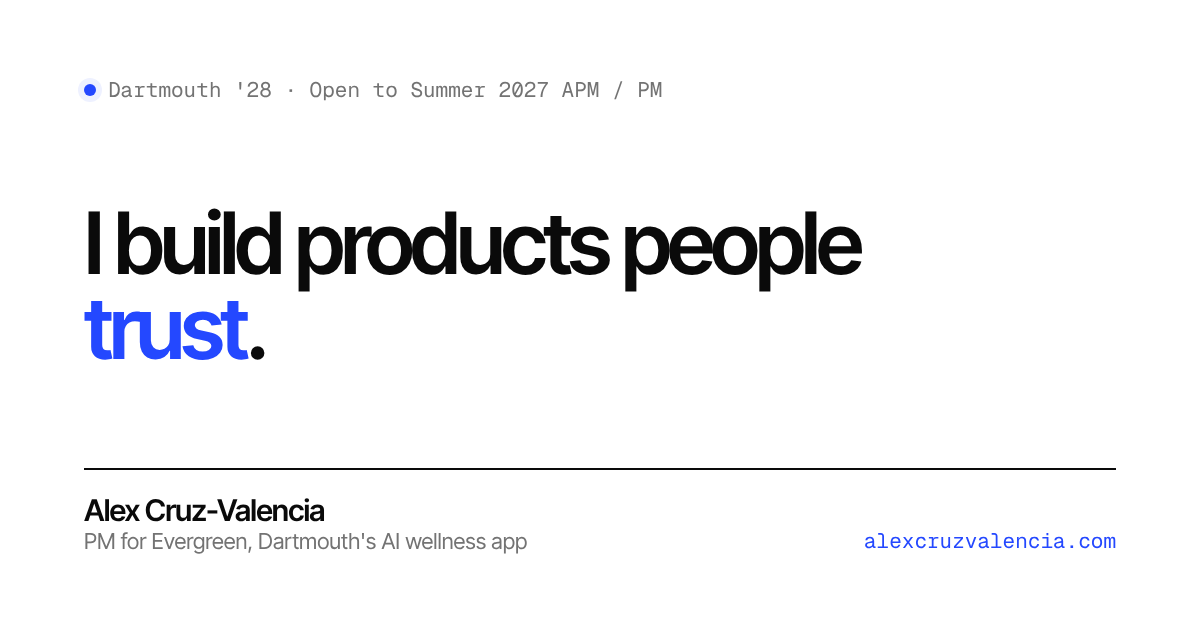
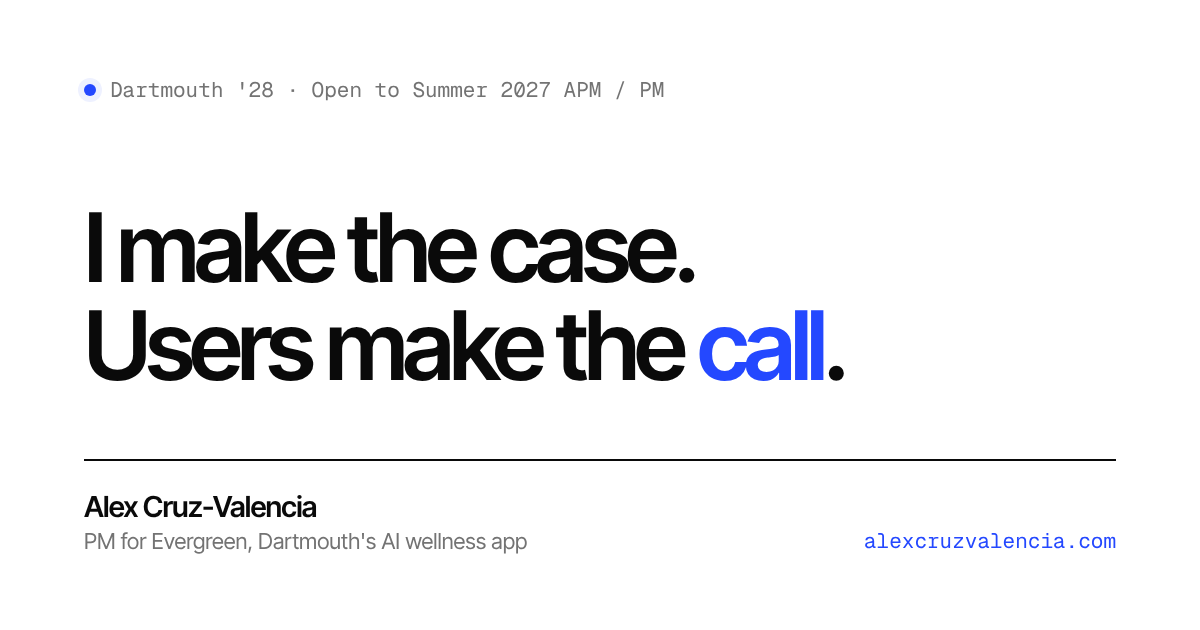
Scannable home and About, new headlines (#22)
* Scannable home and About: shorter hero, result chips on case study rows, About in four short blocks

Claude-Session: https://claude.ai/code/session_01YAcznZRQKYBfMag2UQGWRK

* Home headline: I make the case. Users make the call.

Claude-Session: https://claude.ai/code/session_01YAcznZRQKYBfMag2UQGWRK

* Share image matches the new headline

Claude-Session: https://claude.ai/code/session_01YAcznZRQKYBfMag2UQGWRK

* About headline: I ask who it's for. Then I go ask them. Document the scannable format

Claude-Session: https://claude.ai/code/session_01YAcznZRQKYBfMag2UQGWRK

* About: swap the languages line for what drives me; languages move to quick facts

Claude-Session: https://claude.ai/code/session_01YAcznZRQKYBfMag2UQGWRK

---------

diff --git a/src/styles/theme.css b/src/styles/theme.css
@@ -492,3 +492,8 @@ html.lenis, html.lenis body { height: auto; }
 :root:root:root:root .project-body strong { color: var(--color-text); font-weight: 600; }
 :root:root:root:root .project-more summary { cursor: pointer; }
 :root:root:root:root .project-more[open] summary { color: var(--color-accent); }
+
+/* Scannable home cards: short decks show in full; highlight numbers sit in one row */
+:root:root:root:root .card-excerpt.card-deck { display: block; -webkit-line-clamp: unset; overflow: visible; }
+:root:root:root:root .featured-side.highlight-stack { grid-template-columns: repeat(3, max-content); column-gap: 2.5rem; }
+@media (max-width: 960px) { :root:root:root:root .featured-side.highlight-stack { margin-left: 0; grid-template-columns: repeat(3, minmax(0, max-content)); column-gap: 1.5rem; } }

diff --git a/src/data/testimonials.ts b/src/data/testimonials.ts
@@ -19,7 +19,7 @@ export interface Testimonial {
 export const testimonials: Testimonial[] = [
   {
     quote:
-      'Over ten short weeks, Alex architected an enterprise-grade AI platform to measure product performance. His process was a masterclass in precision: hand-validating hundreds of data points to ensure long-term stability, all while grounding every decision in a sharp, value-driven business case.',
+      'His process was a masterclass in precision: hand-validating hundreds of data points to ensure long-term stability, all while grounding every decision in a sharp, value-driven business case.',
     name: 'Tia Kubicka',
     title: 'Product Leader, Boost Mobile (EchoStar)',
     relation: 'On Alex\'s EchoStar internship, Summer 2026',

diff --git a/src/content.config.ts b/src/content.config.ts
@@ -74,6 +74,8 @@ const caseStudies = defineCollection({
       frame: z.enum(['plain', 'dark', 'browser']).default('plain'),
       wide: z.boolean().default(true),
     }).optional(),
+    // 2–3 short result chips for the home page card.
+    highlights: z.array(z.object({ value: z.string(), label: z.string() })).optional(),
     // A pull quote from someone else, shown in the skim section.
     quote: z.object({ text: z.string(), by: z.string() }).optional(),
     // Big-number row.

diff --git a/AGENTS.md b/AGENTS.md
@@ -61,6 +61,10 @@ Shared helpers: `.eyebrow` / `.mono` labels, `.btn` / `.btn-outline`, `.tag`, `.
 
 Case study frontmatter also supports `org`, `role`, `team`, `methods`, `outcome`, `tldr`, `featured`: these drive the home cards and the "At a glance" box.
 
+**Scannable case study format** (all four use it). When `story` is set, `[slug].astro` renders the skim layout instead of the "At a glance" box: `deck` (one line under the title), `hero` (animated picture: `kind: drop` with `from`/`to` tiles, or `kind: dots` with `total`/`filled`/`groups`/`value`), `story` (`problem`/`decision`/`result`, one sentence each), `feature` (one key visual: `image`/`video`/`html`), `stats` (3 numbers), `decisions` (hard-call cards: `title`, `problem`, `decision`, `result`, optional `lesson`), optional `quote`, `now`, `lesson`, and `fullStoryTime`. The markdown body becomes the collapsed "full story". `highlights` (2 to 3 `{value, label}`) drive the result chips on the home page cards. Keep every skim line short (about 15 words max).
+
+Headlines: home is "I make the case. Users make the call." About is "I ask who it's for. Then I go ask them." `public/og.png` shows the home headline; regenerate it if the headline changes.
+
 Optional assets render only when present (see `src/lib/site.ts`): `public/Alex_Cruz-Valencia_Resume.pdf` (nav, hero, footer, contact; `/resume.pdf` redirects via `vercel.json`) and `public/alex.jpg` (hero + About). Testimonials live in `src/data/testimonials.ts`; the section hides while empty.
 
 ## Pages

diff --git a/src/content/case-studies/echostar-dashboard.md b/src/content/case-studies/echostar-dashboard.md
@@ -68,6 +68,13 @@ quote:
   text: "His process was a masterclass in precision: hand-validating hundreds of data points to ensure long-term stability, all while grounding every decision in a sharp, value-driven business case."
   by: "Tia Kubicka · Product Leader, Boost Mobile (EchoStar)"
 lesson: "The feature I'm proudest of is the one I deleted."
+highlights:
+  - value: "8 \u2192 4"
+    label: "pages, cut on purpose"
+  - value: "~13"
+    label: "launches covered"
+  - value: "1"
+    label: "feature I built, then killed"
 ---
 
 ## It all started when...

diff --git a/src/content/case-studies/evergreen-design-leadership.md b/src/content/case-studies/evergreen-design-leadership.md
@@ -73,6 +73,13 @@ now:
   - title: "Onboarding friction audit"
     body: "Onboarding is still where students drop off most. I'm finding exactly where, and why."
 lesson: "When you can't win the decision, win a way to learn it."
+highlights:
+  - value: "8 \u2192 2"
+    label: "upfront permissions"
+  - value: "80 \u2192 30"
+    label: "onboarding questions"
+  - value: "200"
+    label: "students testing it"
 ---
 
 ## It all started when...

diff --git a/src/content/case-studies/digital-nest-youth-journey.md b/src/content/case-studies/digital-nest-youth-journey.md
@@ -60,6 +60,13 @@ decisions:
     result: "The report stayed focused on what generalized."
     lesson: "Knowing what not to report is part of the job."
 lesson: "Good research finds the number that changes the question."
+highlights:
+  - value: "< 1 in 3"
+    label: "finished training"
+  - value: "5"
+    label: "near-zero-cost pilots"
+  - value: "3 weeks"
+    label: "self-proposed study"
 ---
 
 ## It all started when...

diff --git a/src/content/case-studies/design-corps-llc-research.md b/src/content/case-studies/design-corps-llc-research.md
@@ -62,6 +62,13 @@ decisions:
     result: "The findings still landed, cited by name in Dartmouth's June 2026 report."
     lesson: "Don't dress up a mixed result."
 lesson: "Comply with the directive. Protect the work."
+highlights:
+  - value: "41"
+    label: "student voices"
+  - value: "7"
+    label: "recommendations"
+  - value: "Cited"
+    label: "in Dartmouth's official report"
 ---
 
 ## It all started when...
